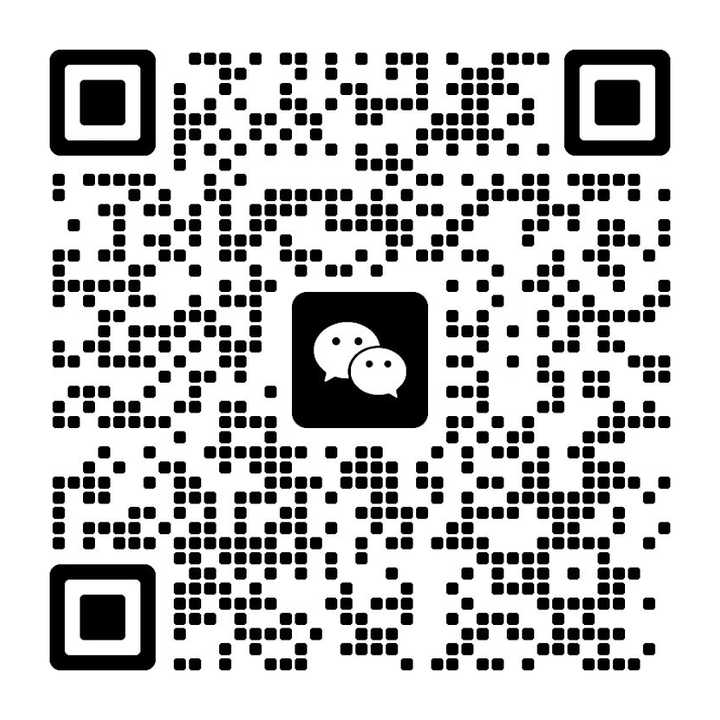
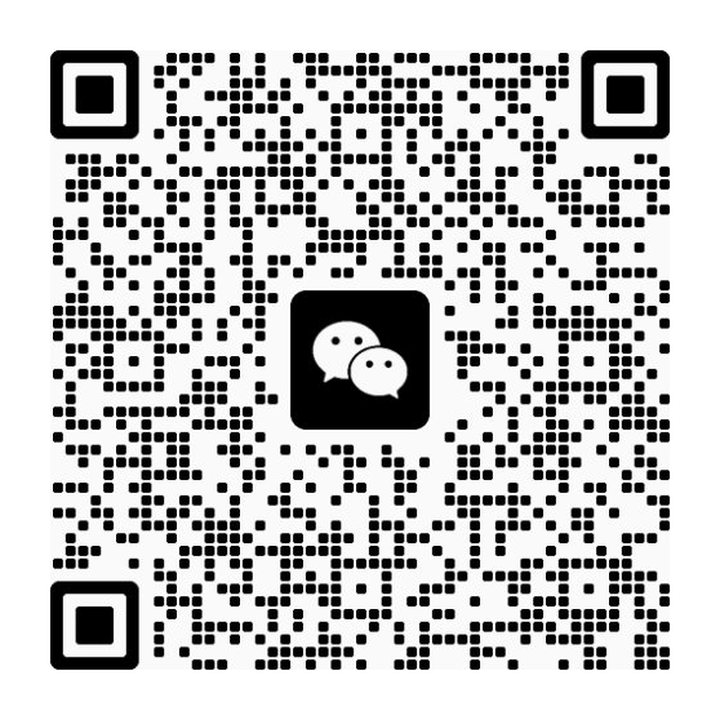
文档：更新微信群二维码为 2026-10-15 版本
- assets/screenshots/wechat-group.png 替换为 2026-10-15 微信群分享页截图，
  裁去群头像与页脚文字后补 4 个模块静默区，输出 720×720 灰度 PNG（197 KB）
- 中英文 README 与素材说明的有效期说明同步改为「10 月 21 日前」有效

diff --git a/assets/screenshots/README.md b/assets/screenshots/README.md
@@ -45,6 +45,6 @@
 
 ## 备注
 
-- **群二维码维护**：`wechat-group.png` 取自微信群分享页，微信对该二维码**只保证 7 天有效**（当前文件截取自 2026-10-08，图内标注「10 月 15 日前」有效），过期后需重新截图替换本文件，并同步更新中英文 README 里的有效期说明；`qq-group.png`（群号 `1092985965`）长期有效，仅在群号变更时需要替换。
-- 裁剪与校验方法：按二维码模块外沿裁掉周边文字，四周补约 4 个模块的白色静默区后缩放为 `720×720`；替换后用二维码识别工具（如 macOS Vision / 微信、QQ 扫码）确认仍可识别。
+- **群二维码维护**：`wechat-group.png` 取自微信群分享页，微信对该二维码**只保证 7 天有效**（当前文件截取自 2026-10-15，图内标注「10 月 21 日前」有效），过期后需重新截图替换本文件，并同步更新中英文 README 里的有效期说明；`qq-group.png`（群号 `1092985965`）长期有效，仅在群号变更时需要替换。
+- 裁剪与校验方法：按二维码模块外沿裁掉周边文字，四周补约 4 个模块的白色静默区后缩放为 `720×720`；替换后用二维码识别工具（如 macOS Vision / 微信、QQ 扫码）确认仍可识别。当前 `wechat-group.png` 为 49×49 模块（版本 8），符号区 480×480 px、模块约 9.8 px，输出静默区 50 px。
 - `assets/provider-icons/**` 已包含在 npm `files` 列表中，本目录未包含，因此截图不会进入 npm 包体积；若希望 npm 页面也显示图片，需要把 `assets/screenshots/**` 加入 `files` 并补上 `package.json` 的 `repository` 字段。

diff --git a/README.md b/README.md
@@ -302,7 +302,7 @@ dsh codingns
   </table>
 </div>
 
-微信群二维码由微信动态生成，**7 天内有效**（本图截取自 2026-10-08，标注「10 月 15 日前」有效），过期后重新进入群分享页会得到新码，也可在 [GitHub Issues](https://github.com/jingyi0605/Codingns4DSH/issues) 留言索取；QQ 群二维码与群号长期有效。
+微信群二维码由微信动态生成，**7 天内有效**（本图截取自 2026-10-15，标注「10 月 21 日前」有效），过期后重新进入群分享页会得到新码，也可在 [GitHub Issues](https://github.com/jingyi0605/Codingns4DSH/issues) 留言索取；QQ 群二维码与群号长期有效。
 
 ---
 
